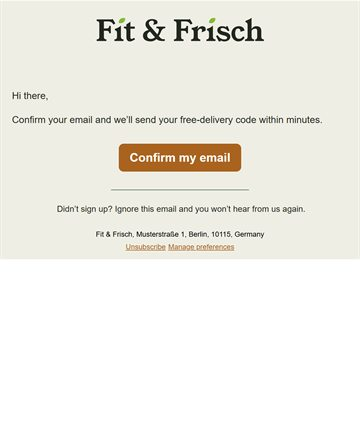
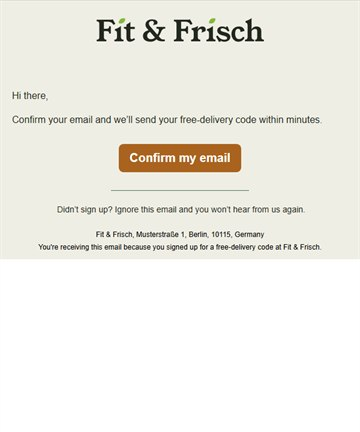
Fit & Frisch: email type labels, transactional footers
Emails tab cards show Transactional (FF 01, FF 06) or Marketing (the rest).
FF 01 and FF 06 replace the unsubscribe links with a line saying why the
contact receives the email; FF 05 drops a repeated phrase. Previews and
thumbnails regenerated where they show the changed parts.

diff --git a/projects/fit-frisch.html b/projects/fit-frisch.html
@@ -259,15 +259,15 @@
         <div class="lens-pane" data-lens-pane="emails" hidden>
           <p class="lens-intro">The nine emails as customers receive them. Click any email to open it and try its buttons.</p>
           <div class="ep-grid">
-            <a class="ep-card" href="../assets/fitfrisch/emails/ff01.html" target="_blank" rel="noopener"><img src="../assets/images/fitfrisch/emails/ff01.jpg" alt="" width="600" height="600" loading="lazy"><span class="ep-body"><b>FF 01</b><strong>Confirm your email to get your free-delivery code</strong><span>One click, then your code is on its way</span></span></a>
-            <a class="ep-card" href="../assets/fitfrisch/emails/ff02.html" target="_blank" rel="noopener"><img src="../assets/images/fitfrisch/emails/ff02.jpg" alt="" width="600" height="600" loading="lazy"><span class="ep-body"><b>FF 02</b><strong>Your free-delivery code is here 🥗</strong><span>Valid for 14 days on your first order</span></span></a>
-            <a class="ep-card" href="../assets/fitfrisch/emails/ff03.html" target="_blank" rel="noopener"><img src="../assets/images/fitfrisch/emails/ff03.jpg" alt="" width="600" height="600" loading="lazy"><span class="ep-body"><b>FF 03</b><strong>This week's menu: 4 lunches, 0 meal prep</strong><span>Your free-delivery code is still waiting</span></span></a>
-            <a class="ep-card" href="../assets/fitfrisch/emails/ff04.html" target="_blank" rel="noopener"><img src="../assets/images/fitfrisch/emails/ff04.jpg" alt="" width="600" height="600" loading="lazy"><span class="ep-body"><b>FF 04</b><strong>500+ Berlin offices order lunch this way</strong><span>Three steps. Your code covers the delivery</span></span></a>
-            <a class="ep-card" href="../assets/fitfrisch/emails/ff05.html" target="_blank" rel="noopener"><img src="../assets/images/fitfrisch/emails/ff05.jpg" alt="" width="600" height="600" loading="lazy"><span class="ep-body"><b>FF 05</b><strong>Your free-delivery code expires in 2 days</strong><span>Last chance for free delivery on your first order</span></span></a>
-            <a class="ep-card" href="../assets/fitfrisch/emails/ff06.html" target="_blank" rel="noopener"><img src="../assets/images/fitfrisch/emails/ff06.jpg" alt="" width="600" height="600" loading="lazy"><span class="ep-body"><b>FF 06</b><strong>Your order is confirmed</strong><span>We deliver to your desk today between 12:00 and 13:00</span></span></a>
-            <a class="ep-card" href="../assets/fitfrisch/emails/ff07.html" target="_blank" rel="noopener"><img src="../assets/images/fitfrisch/emails/ff07.jpg" alt="" width="600" height="600" loading="lazy"><span class="ep-body"><b>FF 07</b><strong>How was your lunch?</strong><span>One click tells our kitchen</span></span></a>
-            <a class="ep-card" href="../assets/fitfrisch/emails/ff08.html" target="_blank" rel="noopener"><img src="../assets/images/fitfrisch/emails/ff08.jpg" alt="" width="600" height="600" loading="lazy"><span class="ep-body"><b>FF 08</b><strong>Same time next week?</strong><span>Your lunch routine, minus the cooking</span></span></a>
-            <a class="ep-card" href="../assets/fitfrisch/emails/ff09.html" target="_blank" rel="noopener"><img src="../assets/images/fitfrisch/emails/ff09.jpg" alt="" width="600" height="600" loading="lazy"><span class="ep-body"><b>FF 09</b><strong>New on the menu: the Chestnut &amp; Mushroom Bowl 🍄</strong><span>Our October special, until 31 October</span></span></a>
+            <a class="ep-card" href="../assets/fitfrisch/emails/ff01.html" target="_blank" rel="noopener"><img src="../assets/images/fitfrisch/emails/ff01.jpg" alt="" width="600" height="600" loading="lazy"><span class="ep-body"><span class="ep-top"><b>FF 01</b><span class="ep-type ep-tx">Transactional</span></span><strong>Confirm your email to get your free-delivery code</strong><span>One click, then your code is on its way</span></span></a>
+            <a class="ep-card" href="../assets/fitfrisch/emails/ff02.html" target="_blank" rel="noopener"><img src="../assets/images/fitfrisch/emails/ff02.jpg" alt="" width="600" height="600" loading="lazy"><span class="ep-body"><span class="ep-top"><b>FF 02</b><span class="ep-type ep-mk">Marketing</span></span><strong>Your free-delivery code is here 🥗</strong><span>Valid for 14 days on your first order</span></span></a>
+            <a class="ep-card" href="../assets/fitfrisch/emails/ff03.html" target="_blank" rel="noopener"><img src="../assets/images/fitfrisch/emails/ff03.jpg" alt="" width="600" height="600" loading="lazy"><span class="ep-body"><span class="ep-top"><b>FF 03</b><span class="ep-type ep-mk">Marketing</span></span><strong>This week's menu: 4 lunches, 0 meal prep</strong><span>Your free-delivery code is still waiting</span></span></a>
+            <a class="ep-card" href="../assets/fitfrisch/emails/ff04.html" target="_blank" rel="noopener"><img src="../assets/images/fitfrisch/emails/ff04.jpg" alt="" width="600" height="600" loading="lazy"><span class="ep-body"><span class="ep-top"><b>FF 04</b><span class="ep-type ep-mk">Marketing</span></span><strong>500+ Berlin offices order lunch this way</strong><span>Three steps. Your code covers the delivery</span></span></a>
+            <a class="ep-card" href="../assets/fitfrisch/emails/ff05.html" target="_blank" rel="noopener"><img src="../assets/images/fitfrisch/emails/ff05.jpg" alt="" width="600" height="600" loading="lazy"><span class="ep-body"><span class="ep-top"><b>FF 05</b><span class="ep-type ep-mk">Marketing</span></span><strong>Your free-delivery code expires in 2 days</strong><span>Last chance for free delivery on your first order</span></span></a>
+            <a class="ep-card" href="../assets/fitfrisch/emails/ff06.html" target="_blank" rel="noopener"><img src="../assets/images/fitfrisch/emails/ff06.jpg" alt="" width="600" height="600" loading="lazy"><span class="ep-body"><span class="ep-top"><b>FF 06</b><span class="ep-type ep-tx">Transactional</span></span><strong>Your order is confirmed</strong><span>We deliver to your desk today between 12:00 and 13:00</span></span></a>
+            <a class="ep-card" href="../assets/fitfrisch/emails/ff07.html" target="_blank" rel="noopener"><img src="../assets/images/fitfrisch/emails/ff07.jpg" alt="" width="600" height="600" loading="lazy"><span class="ep-body"><span class="ep-top"><b>FF 07</b><span class="ep-type ep-mk">Marketing</span></span><strong>How was your lunch?</strong><span>One click tells our kitchen</span></span></a>
+            <a class="ep-card" href="../assets/fitfrisch/emails/ff08.html" target="_blank" rel="noopener"><img src="../assets/images/fitfrisch/emails/ff08.jpg" alt="" width="600" height="600" loading="lazy"><span class="ep-body"><span class="ep-top"><b>FF 08</b><span class="ep-type ep-mk">Marketing</span></span><strong>Same time next week?</strong><span>Your lunch routine, minus the cooking</span></span></a>
+            <a class="ep-card" href="../assets/fitfrisch/emails/ff09.html" target="_blank" rel="noopener"><img src="../assets/images/fitfrisch/emails/ff09.jpg" alt="" width="600" height="600" loading="lazy"><span class="ep-body"><span class="ep-top"><b>FF 09</b><span class="ep-type ep-mk">Marketing</span></span><strong>New on the menu: the Chestnut &amp; Mushroom Bowl 🍄</strong><span>Our October special, until 31 October</span></span></a>
           </div>
         </div>
 

diff --git a/assets/fitfrisch/emails/ff05.html b/assets/fitfrisch/emails/ff05.html
@@ -145,7 +145,7 @@ img{-ms-interpolation-mode:bicubic}p,a,li,td,blockquote{mso-line-height-rule:exa
 </table></div>
   <table role="presentation" cellpadding="0" cellspacing="0" width="100%" class="" style=""><tbody><tr><td class="hs_padded" style="font-family:Helvetica, Arial, sans-serif; font-size:16px; color:#22281f; word-break:break-word; padding:30px 40px 20px"><div id="hs_cos_wrapper_module-1-0-0" class="hs_cos_wrapper hs_cos_wrapper_widget hs_cos_wrapper_type_module" style="color: inherit; font-size: inherit; line-height: inherit;" data-hs-cos-general-type="widget" data-hs-cos-type="module"><div id="hs_cos_wrapper_module-1-0-0_" class="hs_cos_wrapper hs_cos_wrapper_widget hs_cos_wrapper_type_rich_text" style="color: inherit; font-size: inherit; line-height: inherit;" data-hs-cos-general-type="widget" data-hs-cos-type="rich_text"><h1 style="margin:0; font-size:36px; color:#22281f; line-height:167%; font-weight:bold; text-align:center" align="center"><span style="font-family: Georgia, serif;">Two days left</span></h1></div></div></td></tr></tbody></table>
   <table role="presentation" cellpadding="0" cellspacing="0" width="100%" class="" style=""><tbody><tr><td class="hs_padded" style="font-family:Helvetica, Arial, sans-serif; font-size:16px; color:#22281f; word-break:break-word; padding:10px 40px"><div id="hs_cos_wrapper_module_17945743726181" class="hs_cos_wrapper hs_cos_wrapper_widget hs_cos_wrapper_type_module" style="color: inherit; font-size: inherit; line-height: inherit;" data-hs-cos-general-type="widget" data-hs-cos-type="module"><div id="hs_cos_wrapper_module_17945743726181_" class="hs_cos_wrapper hs_cos_wrapper_widget hs_cos_wrapper_type_rich_text" style="color: inherit; font-size: inherit; line-height: inherit;" data-hs-cos-general-type="widget" data-hs-cos-type="rich_text"><p style="font-size:18px; line-height:150%"><span style="font-family: Arial, sans-serif; font-size: 16px;">Your code <span style="font-weight: bold;"><span style="color: #a9631f;"><span style="font-size: 18px;"><span style="color: #a9631f;">DESK-2026</span></span></span></span> expires in 2 days.</span></p>
-<p style="font-size:18px; line-height:150%"><span style="font-family: Arial, sans-serif; font-size: 16px;">Order once. No subscription needed. No subscription.</span></p></div></div></td></tr></tbody></table>
+<p style="font-size:18px; line-height:150%"><span style="font-family: Arial, sans-serif; font-size: 16px;">Order once. No subscription needed.</span></p></div></div></td></tr></tbody></table>
 </div>
 <!--[if gte mso 9]></table><![endif]-->
 <!--[if (mso)|(IE)]></td><![endif]-->

diff --git a/style.css b/style.css
@@ -1332,6 +1332,11 @@ blockquote.ff-quote cite{font-size:14px;}
 .ep-body b{font-size:11px;font-weight:600;letter-spacing:0.12em;color:var(--accent);}
 .ep-body strong{font-size:15.5px;font-weight:500;line-height:1.4;color:var(--ink);}
 .ep-body span{font-size:13.5px;line-height:1.45;color:var(--ink-3);}
+/* Email number with its type: Transactional (solid light pill, the stronger one) or Marketing (orange tint) */
+.ep-body .ep-top{display:flex;align-items:center;justify-content:space-between;gap:8px;}
+.ep-body .ep-type{padding:2px 8px;border-radius:100px;font-size:11px;font-weight:600;letter-spacing:0.06em;line-height:1.5;text-transform:uppercase;}
+.ep-body .ep-tx{border:1px solid var(--ink);background:var(--ink);color:#0B0B0D;}
+.ep-body .ep-mk{border:1px solid transparent;background:color-mix(in srgb, var(--accent) 16%, transparent);color:var(--accent);}
 .ep-pages{display:grid;grid-template-columns:repeat(2,minmax(0,1fr));gap:32px 28px;margin-top:22px;}
 .ep-page{display:flex;flex-direction:column;gap:12px;text-decoration:none;color:var(--ink-2);}
 .ep-page .art-browser{display:block;box-shadow:0 16px 36px -14px rgba(0,0,0,.6);transition:transform .2s ease, box-shadow .2s ease;}

diff --git a/assets/fitfrisch/emails/ff01.html b/assets/fitfrisch/emails/ff01.html
@@ -171,9 +171,8 @@ img{-ms-interpolation-mode:bicubic}p,a,li,td,blockquote{mso-line-height-rule:exa
         <p style="font-family:Arial, sans-serif;font-size:12px;font-weight:normal;text-decoration:none;font-style:normal;color:#000000">
           Fit &amp; Frisch, Musterstraße 1, Berlin,  10115, Germany
         </p>
-        <p>
-          <a href="#" style="font-family:Arial, sans-serif; font-size:12px; color:#a9631f; font-weight:normal; text-decoration:underline; font-style:normal">Unsubscribe</a>
-          <a href="#" style="font-family:Arial, sans-serif; font-size:12px; color:#a9631f; font-weight:normal; text-decoration:underline; font-style:normal">Manage preferences</a>
+        <p style="font-family:Arial, sans-serif;font-size:12px;font-weight:normal;text-decoration:none;font-style:normal;color:#000000">
+          You're receiving this email because you signed up for a free-delivery code at Fit &amp; Frisch.
         </p>
       </td>
     </tr>

diff --git a/assets/fitfrisch/emails/ff06.html b/assets/fitfrisch/emails/ff06.html
@@ -302,9 +302,8 @@ img{-ms-interpolation-mode:bicubic}p,a,li,td,blockquote{mso-line-height-rule:exa
         <p style="font-family:Arial, sans-serif;font-size:12px;font-weight:normal;text-decoration:none;font-style:normal;color:#000001">
           Fit &amp; Frisch, Musterstraße 1, Berlin,  10115, Germany
         </p>
-        <p>
-          <a href="#" style="font-family:Arial, sans-serif; font-size:12px; color:#a9631f; font-weight:normal; text-decoration:none; font-style:normal">Unsubscribe</a>
-          <a href="#" style="font-family:Arial, sans-serif; font-size:12px; color:#a9631f; font-weight:normal; text-decoration:none; font-style:normal">Manage preferences</a>
+        <p style="font-family:Arial, sans-serif;font-size:12px;font-weight:normal;text-decoration:none;font-style:normal;color:#000001">
+          You're receiving this email because you placed an order with Fit &amp; Frisch.
         </p>
       </td>
     </tr>
